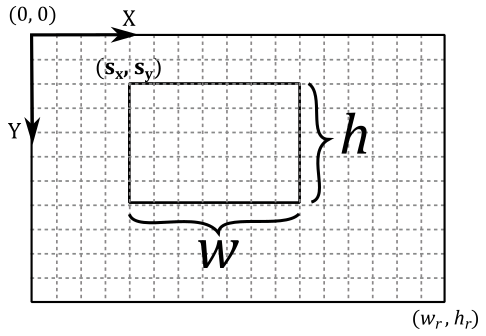
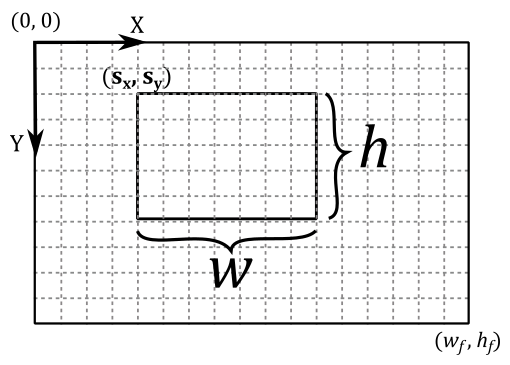
fix

Changed region(s): [[0.0, 0.0, 0.9877, 0.9821]]

diff --git a/docs/LearnVulkan/A.04-Spaces.md b/docs/LearnVulkan/A.04-Spaces.md
@@ -831,7 +831,7 @@ The framebuffer space is the coordinate system used by pipeline stages that oper
 
 <br>
 
-![Image](images/A/04/render-target-space.png)
+![Image](images/A/04/framebuffer-space.png)
 
 <br>
 
